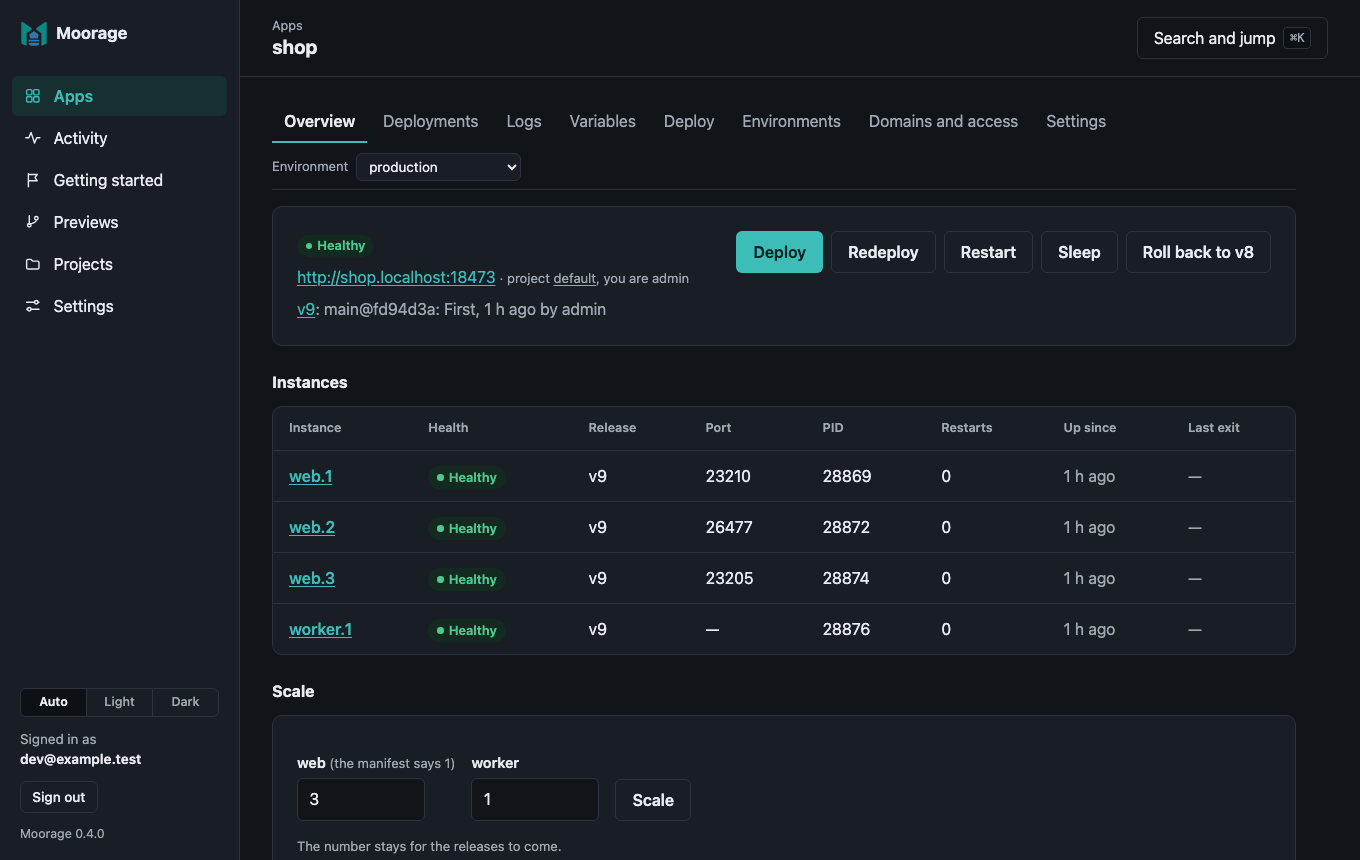
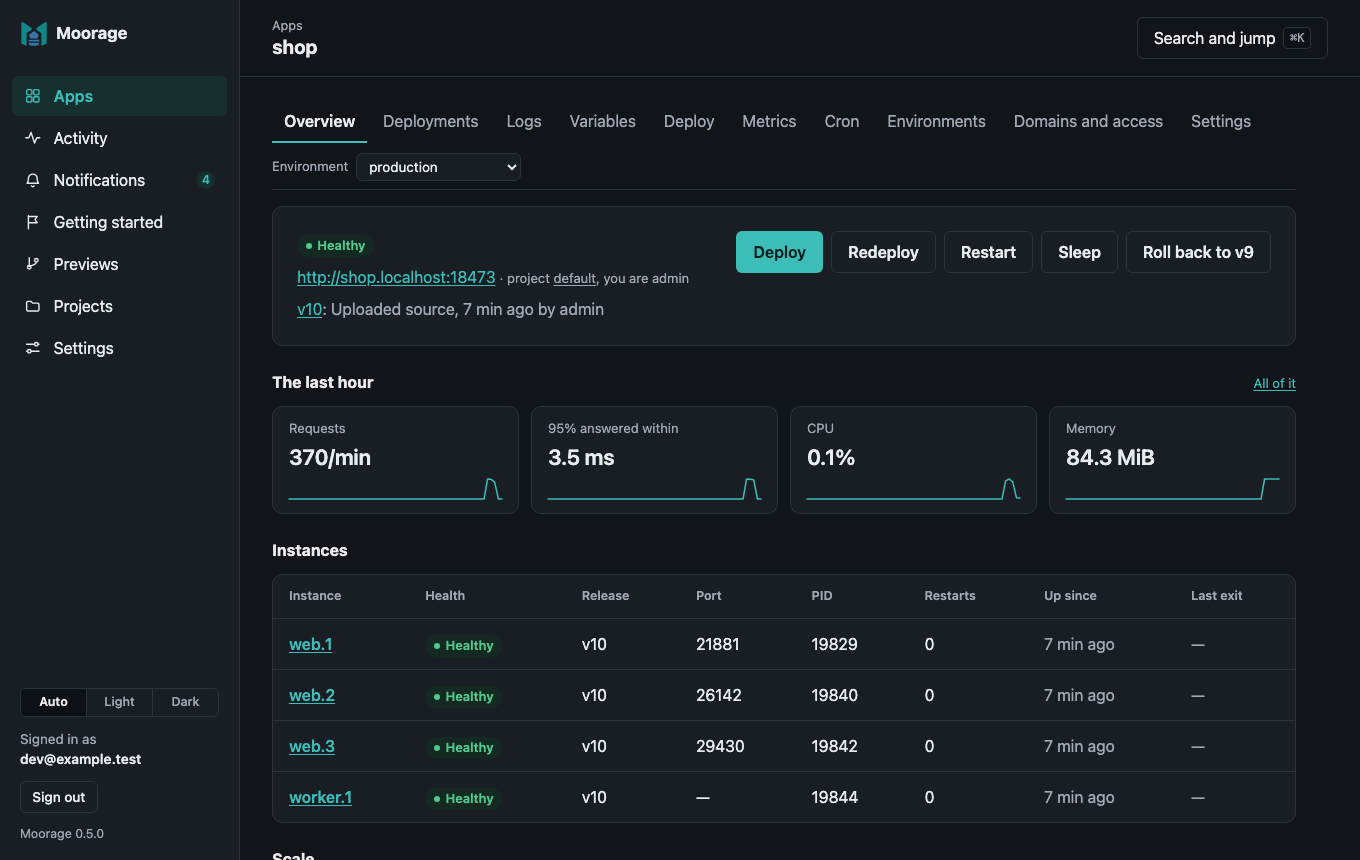
Release 0.5.0
Cron jobs and one-off commands, metrics, notifications, a folder dropped in the
console as a static site, and every static release at its own address. A machine
of 4 CPUs and 8 GB holds 60 environments with sleep on, as measured.

Chat messages can no longer call out to a channel, as what a build said can be
in them, and mail no longer doubles a leading dot.

diff --git a/internal/notify/send.go b/internal/notify/send.go
@@ -177,6 +177,8 @@ func Sign(secret string, at time.Time, body []byte) string {
 	return "t=" + strconv.FormatInt(at.Unix(), 10) + ",v1=" + hex.EncodeToString(mac.Sum(nil))
 }
 
+var slackEscape = strings.NewReplacer("&", "&amp;", "<", "&lt;", ">", "&gt;")
+
 func (s *Service) deliver(ctx context.Context, kind string, cfg Config, m Message) error {
 	ctx, cancel := context.WithTimeout(ctx, 40*time.Second)
 	defer cancel()
@@ -185,14 +187,17 @@ func (s *Service) deliver(ctx context.Context, kind string, cfg Config, m Messag
 	}
 	var payload any
 	switch kind {
-	case KindSlack, KindTeams:
+	case KindSlack:
+		// What an app's build said can be in a message, and is not to call out to a channel.
+		payload = map[string]string{"text": slackEscape.Replace(m.text())}
+	case KindTeams:
 		payload = map[string]string{"text": m.text()}
 	case KindDiscord:
 		text := m.text()
 		if len(text) > 1900 {
-			text = text[:1900]
+			text = strings.ToValidUTF8(text[:1900], "")
 		}
-		payload = map[string]string{"content": text}
+		payload = map[string]any{"content": text, "allowed_mentions": map[string]any{"parse": []string{}}}
 	default:
 		payload = map[string]any{"type": m.Kind, "app": m.App, "env": m.Env, "summary": m.Summary, "link": m.Link, "at": m.At, "suppressed": m.Suppressed, "data": m.Data}
 	}
@@ -267,10 +272,8 @@ func (s *Service) sendEmail(ctx context.Context, cfg Config, m Message) error {
 	clean := strings.NewReplacer("\r", " ", "\n", " ")
 	var mail bytes.Buffer
 	fmt.Fprintf(&mail, "From: %s\r\nTo: %s\r\nSubject: %s\r\nDate: %s\r\nMIME-Version: 1.0\r\nContent-Type: text/plain; charset=utf-8\r\n\r\n", clean.Replace(cfg.From), clean.Replace(strings.Join(cfg.To, ", ")), clean.Replace(m.title()), time.Now().Format(time.RFC1123Z))
-	body := strings.ReplaceAll(m.text(), "\n", "\r\n")
-	// A line of a single dot would end the message.
-	body = strings.ReplaceAll(body, "\r\n.", "\r\n..")
-	mail.WriteString(body + "\r\n")
+	// What this writes to takes care of a line that starts with a dot.
+	mail.WriteString(strings.ReplaceAll(m.text(), "\n", "\r\n") + "\r\n")
 	if _, err := w.Write(mail.Bytes()); err != nil {
 		return err
 	}

diff --git a/internal/notify/notify_test.go b/internal/notify/notify_test.go
@@ -212,9 +212,30 @@ func TestChatPayloads(t *testing.T) {
 			t.Fatal(tc.kind, err)
 		}
 		got := rc.messages()
-		if len(got) != 1 || !strings.Contains(fmt.Sprint(got[0][tc.key]), "this channel works") || len(got[0]) != 1 {
+		if len(got) != 1 || !strings.Contains(fmt.Sprint(got[0][tc.key]), "this channel works") {
 			t.Fatalf("%s: %v", tc.kind, got)
 		}
+	}
+}
+
+// TestMessagesCannotCallOut: what an app's build said can be in a message.
+func TestMessagesCannotCallOut(t *testing.T) {
+	s := &Service{Allow: []netip.Prefix{netip.MustParsePrefix("127.0.0.1/32")}}
+	m := Message{Kind: events.DeploymentFailed, App: "shop", Summary: "<!channel> @everyone it failed", At: time.Now()}
+	rc := newReceiver(t)
+	if err := s.deliver(context.Background(), KindSlack, Config{URL: rc.URL}, m); err != nil {
+		t.Fatal(err)
+	}
+	if text := rc.messages()[0]["text"].(string); strings.Contains(text, "<!channel>") || !strings.Contains(text, "&lt;!channel&gt;") {
+		t.Errorf("%q", text)
+	}
+	discord := newReceiver(t)
+	if err := s.deliver(context.Background(), KindDiscord, Config{URL: discord.URL}, m); err != nil {
+		t.Fatal(err)
+	}
+	mentions, _ := discord.messages()[0]["allowed_mentions"].(map[string]any)
+	if parse, ok := mentions["parse"].([]any); !ok || len(parse) != 0 {
+		t.Errorf("%v", discord.messages()[0])
 	}
 }
 

diff --git a/internal/deploy/upload.go b/internal/deploy/upload.go
@@ -258,8 +258,11 @@ func writeSiteFiles(dir string, next func() (SiteFile, error)) (left []string, e
 			return nil, fmt.Errorf("%s cannot be kept: a file is where a folder should be", rel)
 		}
 		out, err := os.OpenFile(target, os.O_CREATE|os.O_EXCL|os.O_WRONLY, 0o644)
-		if err != nil {
+		if errors.Is(err, fs.ErrExist) {
 			return nil, fmt.Errorf("%s is there twice", rel)
+		}
+		if err != nil {
+			return nil, fmt.Errorf("%s cannot be kept under that name", rel)
 		}
 		n, err := io.Copy(out, io.LimitReader(f.Content, lim.MaxBytes-size+1))
 		if cerr := out.Close(); err == nil {

diff --git a/internal/buildinfo/buildinfo.go b/internal/buildinfo/buildinfo.go
@@ -9,7 +9,7 @@ import (
 // Version is the version being developed or released. The release workflow
 // refuses a tag vX.Y.Z that does not match it, so it is set to the release
 // number by the last slice of each wave.
-var Version = "0.4.0"
+var Version = "0.5.0"
 
 // Info describes the running binary.
 type Info struct {

diff --git a/docs/install.md b/docs/install.md
@@ -1,7 +1,7 @@
 # Installing Moorage
 
 Moorage is one program, `moor`: the server and the command line that talks
-to it. Version 0.4.0 runs on Linux and macOS (amd64 and arm64); on Windows,
+to it. Version 0.5.0 runs on Linux and macOS (amd64 and arm64); on Windows,
 `moor` runs as a command line and `moor server run` works, but installing the
 server as a service arrives in a later release.
 
@@ -52,18 +52,18 @@ sudo sh install-moor.sh
 
 | Variable | `install.sh` | `install.ps1` | |
 |---|---|---|---|
-| `MOOR_VERSION` | `--version` | `-Version` | A release, such as `v0.4.0`. By default, the latest |
+| `MOOR_VERSION` | `--version` | `-Version` | A release, such as `v0.5.0`. By default, the latest |
 | `MOOR_INSTALL_DIR` | `--install-dir` | `-InstallDir` | An absolute directory |
 | `MOOR_REPOSITORY` | | `-Repository` | `owner/repository`, for a fork |
 | `MOOR_ARCH` | | `-Architecture` | `amd64` or `arm64`, if detecting it fails |
 | `MOOR_NO_PATH_UPDATE` | | `-NoPathUpdate` | Leave the user `PATH` alone |
 
 ```bash
-curl --proto '=https' --tlsv1.2 -fsSL https://raw.githubusercontent.com/robert-mcdermott/moorage/main/install.sh | MOOR_VERSION=v0.4.0 sh
+curl --proto '=https' --tlsv1.2 -fsSL https://raw.githubusercontent.com/robert-mcdermott/moorage/main/install.sh | MOOR_VERSION=v0.5.0 sh
 ```
 
 ```powershell
-$env:MOOR_VERSION = 'v0.4.0'; irm https://raw.githubusercontent.com/robert-mcdermott/moorage/main/install.ps1 | iex
+$env:MOOR_VERSION = 'v0.5.0'; irm https://raw.githubusercontent.com/robert-mcdermott/moorage/main/install.ps1 | iex
 ```
 
 **On Windows,** `irm … | iex` reads the script into memory and runs it, so the
@@ -259,6 +259,29 @@ The quick starts show each kind of app: [Go](go.md), [Python](python.md),
 [Node.js](node.md), [static sites](static.md) and
 [anything else](other.md). [Variables and secrets](variables.md)
 configure apps.
+
+## How big a machine
+
+Moorage itself asks for little: about 100 MB of memory, and next to no CPU while nothing is
+happening. What a machine has to hold is your apps, and only those awake. An environment
+[asleep](previews.md#sleeping) uses no memory until a request wakes it.
+
+We check this with [a script](../.github/scripts/capacity-check.sh) on a machine limited to 4 CPUs and
+8 GB: 60 environments of 10 apps, each a small Python server holding 64 MB, with sleep on.
+
+| With 60 environments | Measured |
+|---|---|
+| Memory, all awake | 4.9 GB |
+| Memory, all asleep | 120 MB |
+| The server's own memory, at its most | 107 MB |
+| The server's CPU, all asleep | under 1% of a core |
+| Waking one with a request | 0.13 s for this app: yours takes as long as it takes to start |
+| Waking all 60 at once | 2.3 s for the slowest |
+| Serving five while the others sleep | 4,100 requests a second, 95% within 12 ms |
+| Requests that failed | none |
+
+So count what your apps use while they are awake, and how many of them will be at once. Builds
+need room as well, which depends on what you build, and logs and [metrics](metrics.md) take disk.
 
 ## Back up
 

diff --git a/README.md b/README.md
@@ -43,9 +43,16 @@ binary with its state in SQLite, and everything else is built in.
 - **Configures apps with variables and secrets.** Secrets are encrypted on
   the server and handed to apps in memory only; every change is a new
   release.
+- **Runs what an app needs on a schedule.** Cron jobs in its manifest, and `moor run` for
+  a command now, with its variables and data, like `moor run -- python manage.py migrate`.
+- **Shows how it is doing, and says when it is not.** Requests, response times, CPU and memory
+  for each environment, kept for a year and ready for Prometheus. A failed deployment, a crash
+  loop or a failed cron job reaches those concerned in the console, and by webhook, Slack, Teams,
+  Discord or email: one message and not hundreds, then a word when it recovers.
 - **A web console.** Deploy, scale, restart and roll back from the browser; watch a
   deployment's stages and log as they happen; follow and search logs; change
-  variables. It works on a phone, and without scripts.
+  variables. Drop a folder on it and that is a static site. It works on a phone, and without
+  scripts.
 - **Accounts for a team.** Sign in from any machine by approving it in a
   browser; scoped API tokens for CI; SSH keys for pushing; each deploy records
   who did it. On your own computer you need none of this.
@@ -202,17 +209,20 @@ server](docs/tls.md) certificates, [Behind a TLS proxy](docs/proxy.md) nginx, an
 
 ## Status
 
-Moorage 0.4.0 is a server on Linux or macOS for a team: it builds and deploys
+Moorage 0.5.0 is a server on Linux or macOS for a team: it builds and deploys
 apps from their source or a `git push`, in containers or not, with accounts, projects
 and roles, an audit log and a [web console](docs/console.md). Every branch can have
 [its own preview and address](docs/previews.md), which sleeps when idle, and [who can
 reach it](docs/access.md) is up to you: a password, a sign-in, a share link. Apps can have
-[domains of their own](docs/domains.md). On Windows, `moor` works as a command line and
-`moor server run` works; the Windows service comes later.
+[domains of their own](docs/domains.md), [cron jobs and one-off commands](docs/cron.md),
+[metrics](docs/metrics.md) and [notifications](docs/notifications.md) when something goes
+wrong. On Windows, `moor` works as a command line and `moor server run` works; the Windows
+service comes later.
 
 Next, in the [roadmap](spec/11-roadmap.md):
 
-- **0.5.0, real apps, observed:** cron jobs and one-off runs, metrics, and notifications.
+- **0.6.0, hardened:** apps isolated from one another on Linux, backups to a path or S3,
+  single sign-on and two-factor sign-in, and upgrading itself with a way back.
 
 ## Building Moorage
 

diff --git a/spec/11-roadmap.md b/spec/11-roadmap.md
@@ -955,7 +955,7 @@ directory, supervises it, and serves it on its own hostname.
      now and then fails a navigation that interrupts a page's open stream, with an internal
      error of its own, which the browser check tries again.
 
-## 0.5.0: real apps, observed (planned)
+## 0.5.0: real apps, observed (released 2026-11-04)
 
 ### Wave 5
 
@@ -997,6 +997,17 @@ directory, supervises it, and serves it on its own hostname.
      address by the same way as the request did, in all three places that look routes up.
 5. **Release 0.5.0.** Exit check: 50 or more environments on a 4 vCPU / 8 GB
    VM with sleep enabled.
+   - Done by the release: `.github/scripts/capacity-check.sh`, in a cgroup of 4 CPUs and 8 GB on a
+     CI runner: 60 environments of 10 apps holding 64 MB each. All awake they held 4.9 GB and all
+     asleep 120 MB, of which the server 98 MB, at no measurable CPU. One woke in 0.13 s and all 60
+     together in 2.3 s; five served 4,100 requests a second, 95% within 12 ms, and none failed.
+     It runs when asked, or when it changes itself: the numbers are in `docs/install.md`.
+   - Found by the release: the limit is what apps hold, and not the platform. Two measurements
+     misled at first, both from the test app rather than Moorage: HTTP/1.0 used up local ports on
+     macOS, and two small writes with Nagle's algorithm on made every request on Linux take 41 ms.
+     Adding up RSS overstates memory (6.2 GB, against the cgroup's 4.9 GB), since instances share
+     pages. A scripted drop in WebKit has no file behind it, so that files dropped without a
+     folder need no reading through entries, which also takes away a way of failing.
 
 ## 0.6.0: hardened (planned)
 

diff --git a/CHANGELOG.md b/CHANGELOG.md
@@ -1,6 +1,16 @@
 # Changelog
 
-## Unreleased
+## 0.5.0 (2026-11-04)
+
+Moorage 0.5.0 is about apps once they are running. They can have cron jobs and one-off commands, charts of how they are doing, and notifications when they are not. Drop a folder in the console and it is a static site, with every release at an address of its own. A server of 4 CPUs and 8 GB holds 60 environments with sleep on, as [measured](docs/install.md#how-big-a-machine).
+
+Upgrading from 0.4.0 needs no steps of its own: replace `moor` and restart the server, and running apps are taken over without a restart. Some things behave differently:
+
+- **`[[cron]]` in a manifest now runs.** It was accepted and did nothing, and `moor manifest validate` warned of that. Its jobs start with the next deployment.
+- **`[vars.NAME]` now counts.** A deployment fails early if a `required` one is missing, and one to `generate` is made.
+- **`watch` in `[app]` now counts.** A push that touches none of those paths is kept, and not deployed.
+- **People are told when things fail.** In the console, maintainers of a project, its administrators and whoever pushed a deployment see notifications, with no setup. Nothing leaves the server until you add a channel and a rule.
+- **Metrics take room.** About 6 MB for a busy environment, kept for a year.
 
 ### Added
 

diff --git a/docs/manifest.md b/docs/manifest.md
@@ -3,7 +3,7 @@
 `moorage.toml`, at the top of an app's directory, says how Moorage builds
 and runs the app. It is optional: without it, Moorage detects the kind of
 app (see [Detection](#detection)), and `moor manifest explain` shows what it
-detected. This page describes the manifest as Moorage 0.4.0 implements it;
+detected. This page describes the manifest as Moorage 0.5.0 implements it;
 the [design](../spec/03-manifest.md) describes what later releases add.
 
 ```bash

diff --git a/docs/README.md b/docs/README.md
@@ -1,7 +1,7 @@
 # Moorage documentation
 
 How to install Moorage, run it, and deploy apps to it. This documentation
-describes Moorage 0.4.0; the [design documents](../spec/README.md) describe
+describes Moorage 0.5.0; the [design documents](../spec/README.md) describe
 how it works inside and where it is going.
 
 ## Start here

diff --git a/docs/troubleshooting.md b/docs/troubleshooting.md
@@ -12,7 +12,7 @@ server's files.
 
 ```text
 ✔ config         /etc/moorage/server.toml
-✔ server         running 0.4.0 on :80
+✔ server         running 0.5.0 on :80
 ✔ listen.http    answering on :80
 ✔ listen.https   answering on :443
 ✔ listen.ssh     answering on :2222
